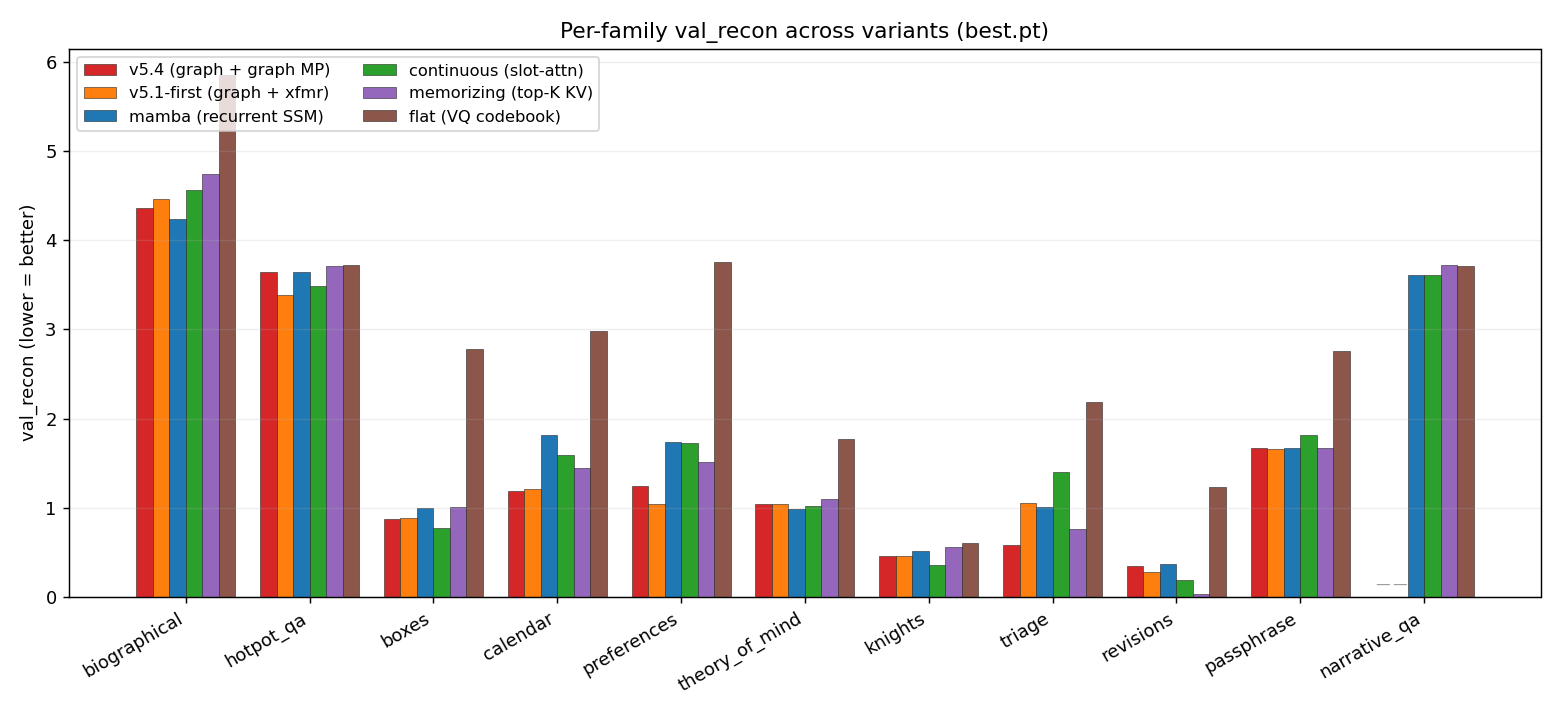
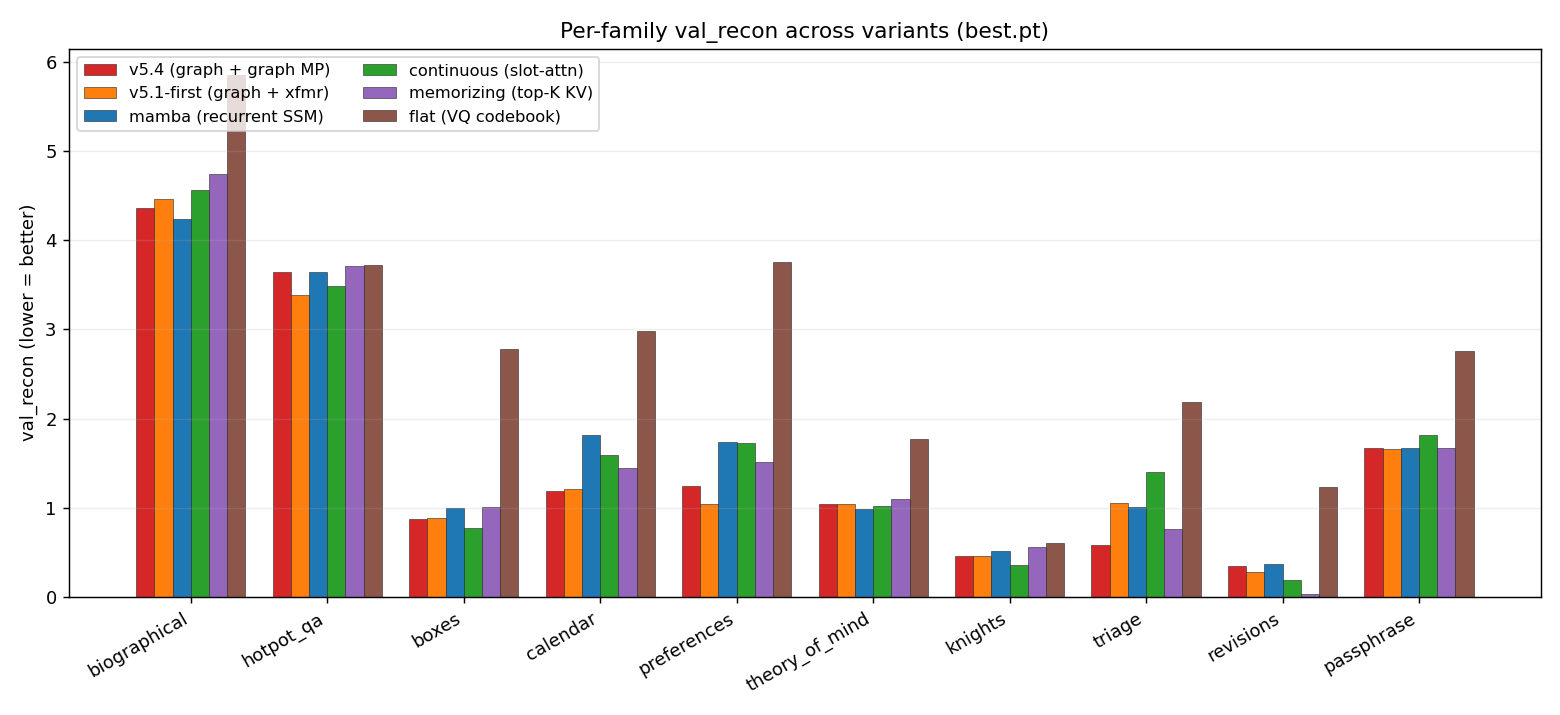
scoreboard: 3D scatter as static PNG; drop narrative_qa from per-family
- plot_3d switched from Plotly HTML to matplotlib PNG. Easier to share,
  no need to rotate interactively. View angle (elev=22, azim=-60) with
  x and y both inverted puts the "good corner" (fast convergence, low
  val_recon, high top-1) at front-right-top.
- Per-family plot drops narrative_qa entirely. At chunk_size=4096 the
  NarrativeQA story doesn't fit, so the per-family loss reflects
  truncation rather than real comprehension — moot for every variant.
  Will reintroduce at the 8K / 16K tranches once it fits.

diff --git a/scripts/repr_learning/plot_scoreboard.py b/scripts/repr_learning/plot_scoreboard.py
@@ -76,65 +76,63 @@ def _collect_outputs_root(out_root: Path) -> dict:
 
 
 def plot_3d(data: dict, out_path: Path) -> None:
-    import plotly.graph_objects as go
+    import matplotlib.pyplot as plt
+    from mpl_toolkits.mplot3d import Axes3D  # noqa: F401  (registers projection)
 
     # Single 3D scatter: x=best_step, y=val_recon, z=top1.
-    # The "good corner" is (low x, low y, high z): fast to converge, low loss,
-    # high accuracy. Markers stay one trace per variant so the legend lists
-    # them individually instead of being collapsed by group.
-    fig = go.Figure()
+    # x and y both reversed so the "good corner" — fast convergence, low
+    # loss, high top-1 — ends up at the front-right-top of the box.
+    fig = plt.figure(figsize=(11, 8))
+    ax = fig.add_subplot(111, projection="3d")
 
     for label, d in data.items():
-        symbol = "diamond" if d["group"] == "graph_v5" else "circle"
-        fig.add_trace(go.Scatter3d(
-            x=[d["step"]],
-            y=[d["val_recon"]],
-            z=[d["top1"] * 100.0],
-            mode="markers+text",
-            marker=dict(size=10, color=d["color"], symbol=symbol,
-                        line=dict(color="#222", width=0.8)),
-            text=[label.split(" (")[0]],
-            textposition="top center",
-            textfont=dict(size=11),
-            name=label,
-            hovertext=(f"{label}<br>"
-                       f"best_step: {d['step']}<br>"
-                       f"val_recon: {d['val_recon']:.3f}<br>"
-                       f"top-1: {d['top1']*100:.1f}%"),
-            hoverinfo="text",
-        ))
+        marker = "D" if d["group"] == "graph_v5" else "o"
+        ax.scatter(
+            [d["step"]], [d["val_recon"]], [d["top1"] * 100.0],
+            c=[d["color"]], s=180, marker=marker,
+            edgecolors="#222", linewidths=0.6,
+            label=label, depthshade=False,
+        )
+        short = label.split(" (")[0]
+        ax.text(d["step"], d["val_recon"], d["top1"] * 100.0 + 1.3,
+                short, fontsize=10, ha="center")
 
-    fig.update_layout(
-        title=("Scoreboard: best_step × val_recon × top-1 "
-               "(good corner = front-left-top)"),
-        scene=dict(
-            xaxis=dict(title="steps to best.pt", autorange="reversed"),
-            yaxis=dict(title="val_recon (lower better)", autorange="reversed"),
-            zaxis=dict(title="top-1 accuracy (%)"),
-            aspectmode="cube",
-        ),
-        legend=dict(itemsizing="constant"),
-        height=750,
-    )
-    fig.write_html(str(out_path), include_plotlyjs=True, full_html=True)
+    ax.set_xlabel("steps to best.pt", labelpad=8)
+    ax.set_ylabel("val_recon (lower = better)", labelpad=8)
+    ax.set_zlabel("top-1 accuracy (%)", labelpad=8)
+    ax.invert_xaxis()
+    ax.invert_yaxis()
+    # Tilt + spin so the "good" corner (low step, low val_recon, high top1)
+    # is front-and-up. azim=-60 + elev=20 puts that corner toward the
+    # viewer; with x and y both inverted it lands on the top-right.
+    ax.view_init(elev=22, azim=-60)
+    ax.set_title("Scoreboard: best_step × val_recon × top-1\n"
+                 "(good corner = front-right-top)")
+    ax.legend(loc="upper left", fontsize=9, bbox_to_anchor=(0.02, 0.98))
+    fig.tight_layout()
+    fig.savefig(out_path, dpi=130)
     print(f"[output] wrote {out_path}")
 
 
 def plot_per_family(data: dict, out_path: Path) -> None:
     import matplotlib.pyplot as plt
 
+    # narrative_qa is dropped at the current chunk_size=4096 tranche:
+    # the NarrativeQA story doesn't fit, so the per-family loss reflects
+    # truncation rather than comprehension. Will become informative at
+    # the 8K / 16K tranches.
+    EXCLUDE = {"narrative_qa"}
+
     # Union of families across variants. Preserve roughly stable order with
-    # composite_v1's 9 first, then external corpora (hotpot_qa, narrative_qa).
+    # composite_v1's 9 first, then external corpora (hotpot_qa).
     canonical_order = [
         "biographical", "hotpot_qa", "boxes", "calendar", "preferences",
         "theory_of_mind", "knights", "triage", "revisions", "passphrase",
-        "narrative_qa",
     ]
     all_families = set()
     for d in data.values():
-        all_families.update(d["per_family"].keys())
+        all_families.update(k for k in d["per_family"].keys() if k not in EXCLUDE)
     families = [f for f in canonical_order if f in all_families]
-    # Catch any unexpected new family.
     for f in sorted(all_families - set(canonical_order)):
         families.append(f)
 
@@ -188,7 +186,7 @@ def main() -> None:
               f"top1={d['top1']*100:.1f}%  families={len(d['per_family'])}")
 
     if args.mode in ("3d", "both"):
-        plot_3d(data, args.out_dir / "scoreboard_3d.html")
+        plot_3d(data, args.out_dir / "scoreboard_3d.png")
     if args.mode in ("family", "both"):
         plot_per_family(data, args.out_dir / "scoreboard_per_family.png")
 